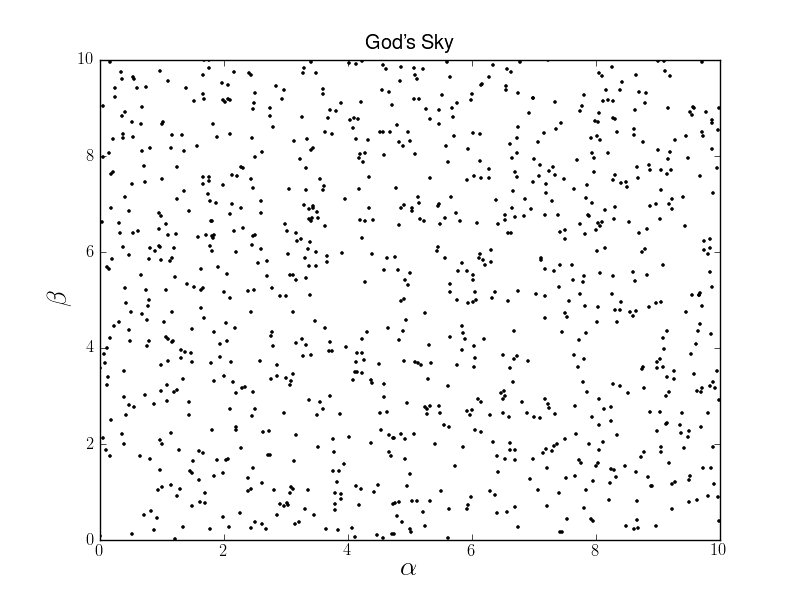
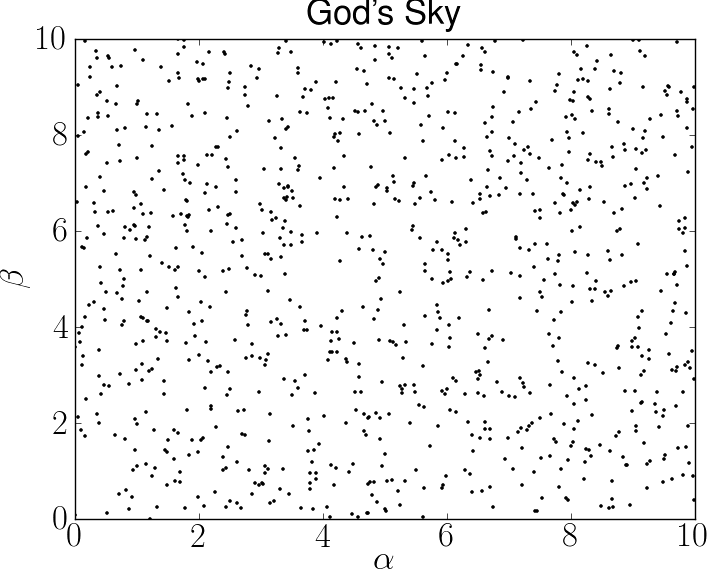
euclid: doc update, include ubercal s_step
git-svn-id: svn+ssh://astrometry.net/svn/trunk/projects/euclid@17321 03a3cea6-2c03-0410-ac9b-9271b1c66c29

diff --git a/Documentation/ubercal.tex b/Documentation/ubercal.tex
@@ -7,6 +7,7 @@
 \usepackage{listings}
 \usepackage{graphicx}
 \usepackage{upgreek}
+\usepackage{subfigure}
 
 \author{David Hogg, Rory Holmes}
 \title{Ubercalibration Simulations \\(Euclid)}
@@ -37,66 +38,61 @@
 \section{Introduction}
 These simulations... 
 
-\section{General}
-
-\subsection{Parameter File}
-
-Simulation parameters are stored in the parameter.py file.
-
-\subsection{General Functions}
-The functions.py file contains two routine for converting between magnitudes and fluxes. ..
-
 \section{Sky Catalog}
 We create a fake sky, based on realistic star densities, between a magnitude of 19 to 22.5. The upper and lower limits are defined based the saturation and 10$\upsigma$ limits for a single Euclid exposure. Star's are generated with random coordinates (within the sky region being investigated) and with a random magnitude according to the following powerlaw:
 \begin{equation}
-\frac{1}{N} \frac{dN}{dm} = A + B m
+\frac{1}{N} \frac{dN}{dm} = a + b m
 \end{equation}
 
-The \textit{Transformation Method} is used generate random numbers with the appropriate probability density function. 
+The following equation is used to generate random star magnitudes with the appropriate probability density distribution function (see Appendix for derivation):
 
 \begin{equation}
-\log_{10} \frac{\Delta N}{\Delta m} = A + B m
+m = \frac{1}{b} \log{(\left[ 10^{b m_{max}} - 10^{b m_{min}} \right] r + 10^{b m_{min}})}
 \end{equation}
 
-\begin{equation}
-\frac{d N}{d m} =10^ {A + B m}
-\end{equation}
-
-prob dist function int = 1
-
-\begin{equation}
-\frac{d N}{d m} =10^ {A + B m}
-\end{equation}
+\noindent{}where r is a random number in the range [0.0, 1.0). See Fig. \ref{fig:catalog}. 
 
 \begin{figure}[ht]
-\begin{center}
-\includegraphics[width=\textwidth]{source_mag_histogram.png}
-\end{center}
-\caption{A histogram of the generated star magnitudes. The number of stars is given by... XX \label{fig:source_magnitude}}
+\centering
+\subfigure[A histogram of the generated stars' magnitudes.]{
+\includegraphics[width=0.45\textwidth]{source_mag_histogram.png}
+\label{fig:source_magnitude}
+}
+\subfigure[A small subset of the simulated sky catalog shown on the fake sky.]{
+\includegraphics[width=0.45\textwidth]{gods_sky.png}
+\label{fig:gods_sky}
+}
+\label{fig:catalog}
 \end{figure}
 
-\begin{figure}[ht]
-\begin{center}
-\includegraphics[width=\textwidth]{gods_sky.png}
-\end{center}
-\caption{A small subset of the simulated sky catalog produced. \label{fig:gods_sky}}
-\end{figure}
+The random number generator is given the same seed, so that the same simulated sky is produced each time the routine is called.
 
-The random number generate is given the same seed, so that the same simulated sky is produced each time the routine is called.
+\section{Single Exposure}
+With a given pointing and orientation, we transform the sky catalog into focal plane coordinates and find all the stars falling within the field-of-view. We do not simulate images, instead we trivially convert the actual star fluxes into measured fluxes. 
 
+\subsection{Uncertainty Variance}
+We assume that the Euclid exposures will be background limited and that we will hit an upper limit on the signal-to-noise for bright sources. We model the uncertainty on the flux as:
 
-\section{Camera Model}
+\begin{equation}
+\sigma_{\text{f}}^{2} = \alpha^{2} + \eta^{2} f^{2} 
+\end{equation}
 
-\subsection{Sky to Focal Plane Coordinate Transformations}
+\noindent{}where $\alpha$ and $\eta$ are both constants (see Fig. \ref{fig:flux_uncertainty}).
 
-\subsection{Uncertainty Inverse-Variance}
 \begin{figure}[ht]
 \begin{center}
 \includegraphics[width=\textwidth]{flux_uncertainty_variance.png}
 \end{center}
-\caption{XX UPDATE \label{fig:flux_uncertainty}}
+\caption{The flux uncertainty used as a function of star magnitude.\label{fig:flux_uncertainty}}
 \end{figure}
 \subsection{Catalog to Measured Flux Conversion}
+The measured flux from a star depends on its focal plane position ($\vec{x_i}$), God's flat-field (with parameters $\vec{q}$) and the star's true flux ($s$). 
+
+\begin{equation}
+c_i = f(\vec{x_i} | \vec{q}) . s_{k} + e_{i}
+\end{equation}
+
+\noindent{}An error, drawn from the Normal Distribution $e_{ij} = N(e|0,{\sigma_i}^2)$, is also introduced to the measurement.
 
 \section{Ubercalibration}
 The ubercalibration procedure works in two sub-steps: (i) the star fluxes are refined based on the latest flat-field estimate (\textit{s\_step}) and (ii) the flat-field parameters are refined based on the latest star flux estimates (\textit{q\_step}). We iterate these steps until the parameters converge. In our notation $j$ refers to the iteration step. 
@@ -154,5 +150,44 @@ f_{ij} = \sum_{l = 1}^L q_{lj} g_l(\vec{x_i})
 \begin{equation}
 \sum_{i} \frac{g_l(\vec{x_i}) s_{kj+1} c_i}{{\sigma_i}^2} = \sum_{i} \frac{g_l(\vec{x_i}) s_{kj+1}^2 \sum_{l' = 1}^{L'} q_{l'j+1} g_{l'}(\vec{x_i})}{{\sigma_i}^2}
 \end{equation}
+
+\appendix
+\section{Random Magnitude Generation}
+XX DAVID: I have included this so that I remember how the formula was derived...
+
+
+\noindent{}The Transformation Method is used generate random numbers with the appropriate probability density function. 
+
+\begin{equation}
+\frac{1}{N} \frac{dN}{dm} = a + b m
+\end{equation}
+
+\noindent{}The probability a star is generated with a magnitude $m$ in the range [$m_0$,$m_1$) is therefore:
+
+\begin{equation}
+p(m) = \frac{\dfrac{d N}{d m}}{\int_{m_{0}}^{m_{1}}\dfrac{d N}{d m} dm} = A \frac{d N}{d m}
+\end{equation}
+
+\noindent{}Using the Transformation Method, we find:
+
+\begin{eqnarray}
+r (m) & = & \int_{m_{0}}^{m} p(m') dm'\\
+& = & A \int_{m_{0}}^{m} 10^{a+b m'} dm'\\
+& = & B \int_{m_{0}}^{m} e^{b m' \ln{10}} dm'\\
+& = & \frac{B}{b \ln{10}} \left[ 10^{b m} - 10^{b m_{0}} \right] \label{eqn:Bover}
+\end{eqnarray}
+
+\noindent{}Since the probability of generating a magnitude between $m_0$ and $m_1$ is 1:
+
+\begin{equation}
+B = \frac{b \ln{10}}{\left[ 10^{b m_{1}} - 10^{b m_{0}} \right]} \label{eqn:B}
+\end{equation}
+
+\noindent{}Substituting Eqn. \ref{eqn:B} into Eqn. \ref{eqn:Bover} and rearranging we find that stars can be produced according to the appropriate probability density distribution function with the equation:
+
+\begin{equation}
+m = \frac{1}{b} \log{(\left[ 10^{b m_{max}} - 10^{b m_{min}} \right] r + 10^{b m_{min}})}
+\end{equation}
+\noindent{}where r is a random number in the range [0.0, 1.0).
 
 \end{document}

diff --git a/god.py b/god.py
@@ -58,24 +58,38 @@ def create_catalog(M, m_min, m_max, powerlaw, sky, limits, seed, plots=None, ver
     
   if plots != None:
     # Plot portion of sky
+    fontsize = 25
     if verbose != None: print "Plotting portion of sky..."
     plt.figure()
     plt.plot(catalog[0:1000,2],catalog[0:1000,3],'ko',markersize=2)
-    plt.xlabel(ur'$\alpha$', fontsize=20)
-    plt.ylabel(ur'$\beta$', fontsize=20)
-    plt.title("God's Sky")
-    plt.savefig("Figures/gods_sky.png")
+    plt.xlabel(ur'$\alpha$', fontsize=fontsize)
+    plt.ylabel(ur'$\beta$', fontsize=fontsize)
+    plt.title("God's Sky", fontsize=fontsize)
+    ax = plt.gca()
+    for tick in ax.xaxis.get_major_ticks():
+      tick.label1.set_fontsize(fontsize)
+    for tick in ax.yaxis.get_major_ticks():
+      tick.label1.set_fontsize(fontsize)
+    plt.savefig("Figures/gods_sky.png",bbox_inches='tight',pad_inches=0.)
     if verbose != None: print "...done!"
     
     # Histogram of source magnitude
     plt.figure()
+    fontsize = 25
     bin=np.arange(m_min,m_max,0.05)
     if verbose != None: print "Plotting histogram of source magnitude..."
     plt.hist(catalog[:,1],bins=bin, log=True)
-    plt.title("%i Sources in Sample" % len(catalog[:,0]))
-    plt.xlabel("Source Magnitude")
-    plt.ylabel("log(N)")
-    plt.savefig("Figures/source_mag_histogram.png")
+    plt.title("%i Sources in Sample" % len(catalog[:,0]), fontsize=fontsize)
+    plt.xlabel("Source Magnitude", fontsize=fontsize)
+    plt.ylabel("log(N)", fontsize=fontsize)
+    ax = plt.gca()
+    for tick in ax.xaxis.get_major_ticks():
+      tick.label1.set_fontsize(fontsize)
+    for tick in ax.yaxis.get_major_ticks():
+      tick.label1.set_fontsize(fontsize)
+
+    
+    plt.savefig("Figures/source_mag_histogram.png",bbox_inches='tight',pad_inches=0.)
     if verbose != None: print "...done!"
   
   return catalog

diff --git a/master.py b/master.py
@@ -54,7 +54,7 @@ observation_catalog = survey.survey(sky_catalog, "A.txt", plots=plots, verbose=v
 
 q = [1,0,0,0,0,0]
 
-s, s_invvar = functions.s_step(observation_catalog,q)
+#s, s_invvar = functions.s_step(observation_catalog,q)
 
 order = 2
 

diff --git a/parameters.py b/parameters.py
@@ -15,7 +15,7 @@ def m_max():
 
 def density_of_stars():
   # density of stars (all magnitudes)
-  return 100
+  return 1000
 
 def powerlaw():
   #B in log10(dN/dm) = A + B*m
